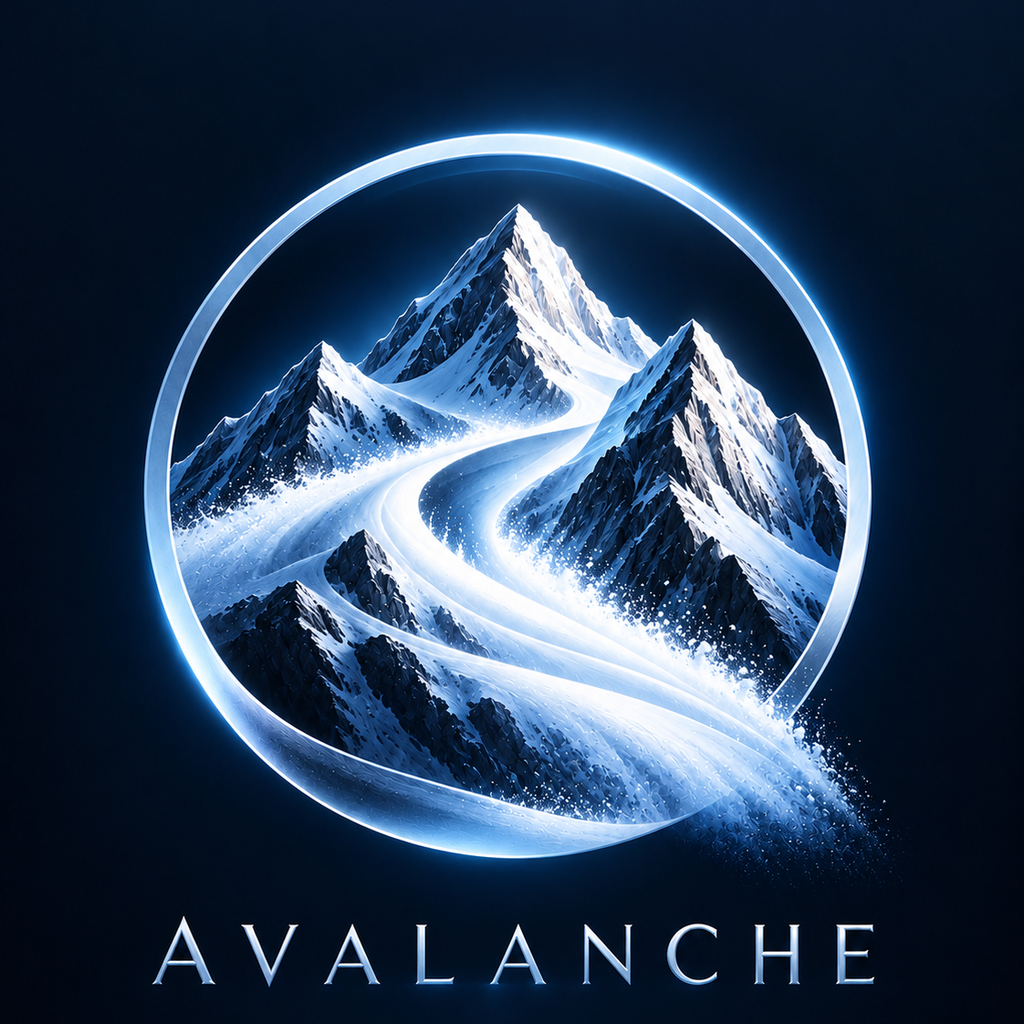
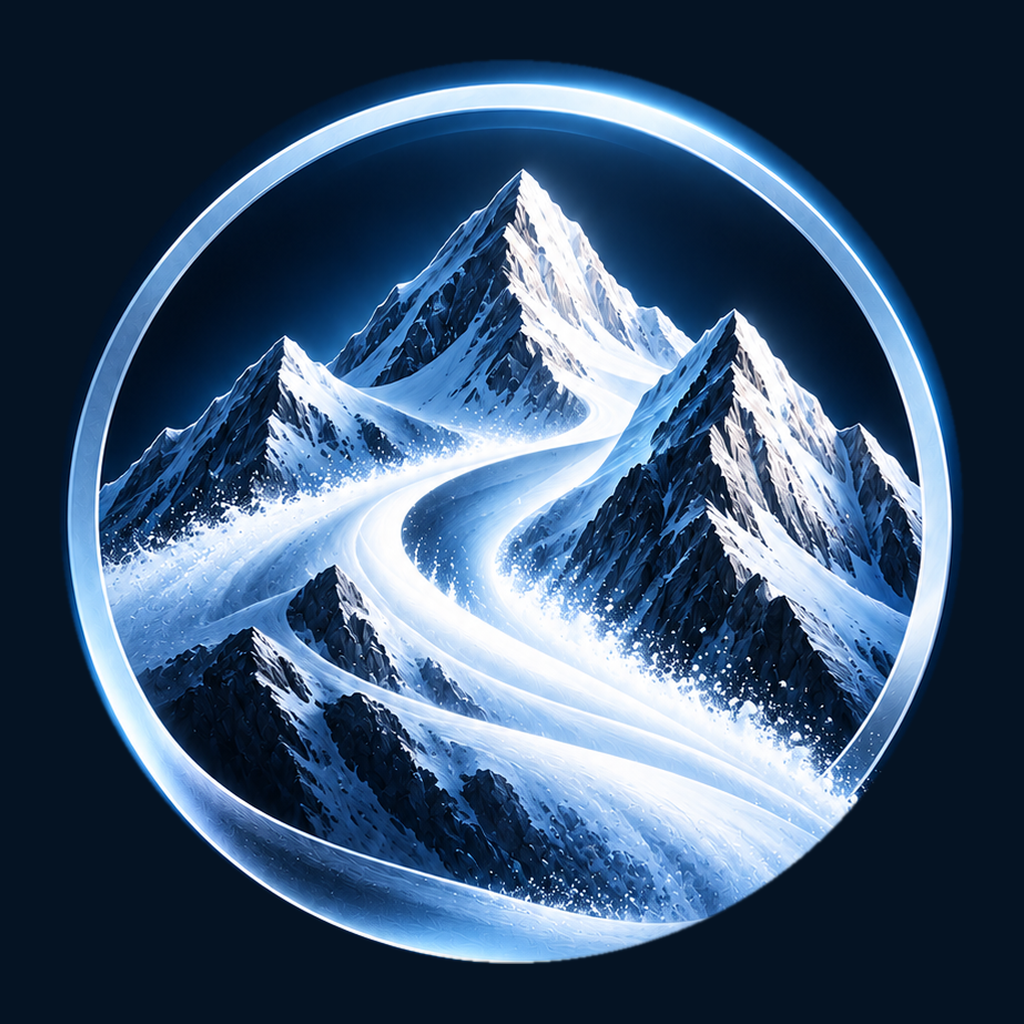
Add files via upload

diff --git a/index.html b/index.html
@@ -4,11 +4,11 @@
 <meta charset="utf-8">
 <meta name="viewport" content="width=device-width,initial-scale=1,maximum-scale=1,user-scalable=no,viewport-fit=cover">
 <meta name="apple-mobile-web-app-title" content="AVALANCHE">
-<meta name="theme-color" content="#07101b">
+<meta name="theme-color" content="#10243a">
 <meta name="apple-mobile-web-app-capable" content="yes">
 <meta name="apple-mobile-web-app-title" content="AVALANCHE">
-<link rel="apple-touch-icon" sizes="1024x1024" href="apple-touch-icon.png?v=4">
-<link rel="icon" type="image/png" href="apple-touch-icon.png?v=4">
+<link rel="apple-touch-icon" sizes="1024x1024" href="apple-touch-icon.png?v=5">
+<link rel="icon" type="image/png" href="apple-touch-icon.png?v=5">
 <title>AVALANCHE</title>
 <style>
 :root{
@@ -43,11 +43,11 @@ input,textarea{-webkit-user-select:text;user-select:text}
 button{cursor:pointer;touch-action:manipulation}
 button:focus-visible,input:focus-visible,textarea:focus-visible{outline:2px solid var(--ice);outline-offset:3px}
 .app{max-width:720px;margin:auto;padding:0 23px max(45px,env(safe-area-inset-bottom))}
-.top{display:flex;justify-content:space-between;align-items:flex-start;padding:34px 0 14px;gap:18px}
+.top{display:flex;justify-content:space-between;align-items:center;padding:24px 0 23px;gap:18px;position:relative;margin-bottom:28px}.top:before{content:"";position:absolute;z-index:-1;top:0;bottom:0;left:50%;width:100vw;transform:translateX(-50%);background:linear-gradient(120deg,#152d45,#10253a 65%,#0d2136);border-bottom:1px solid #36516a}
 .brandwrap{display:flex;align-items:center;gap:12px;min-width:0}
-.logo{width:44px;height:44px;flex:0 0 auto;display:block;filter:drop-shadow(0 0 10px rgba(166,214,255,.15))}
-.wordmark{font-size:15px;letter-spacing:.31em;font-weight:720;color:var(--brand);text-shadow:0 0 10px rgba(173,219,255,.12)}
-.sub{font-size:10px;letter-spacing:.19em;color:var(--ice2);text-transform:uppercase}
+.logo{width:54px;height:54px;flex:0 0 auto;display:block;object-fit:contain;filter:drop-shadow(0 0 6px rgba(166,214,255,.13))}
+.wordmark{font-size:15px;letter-spacing:.20em;font-weight:720;color:var(--brand);text-shadow:0 0 10px rgba(173,219,255,.12)}
+.sub{font-size:10px;letter-spacing:.015em;color:#bbcfdf;line-height:1.5}
 .topright{display:flex;gap:14px;flex-shrink:0}
 .linkbtn{border:0;background:none;color:var(--brand);padding:5px 0;font-size:13px}
 .motto{color:#b7c8d8;font:italic 19px/1.5 Georgia,serif;margin:30px 0 34px;max-width:430px}
@@ -57,7 +57,7 @@ button:focus-visible,input:focus-visible,textarea:focus-visible{outline:2px soli
 .filters{display:flex;gap:22px;border-bottom:1px solid var(--line);margin-bottom:8px}
 .filter{padding:12px 0;background:none;border:0;color:var(--muted);border-bottom:2px solid transparent}
 .filter.active{color:var(--fg);border-color:var(--ice)}
-.count{margin:23px 0 14px;color:var(--muted);font-size:12px;letter-spacing:.04em}
+.count{margin:20px 0 3px;color:#738ba0;font-size:11px;letter-spacing:.03em}
 .entry{padding:24px 2px 25px;border-bottom:1px solid var(--line);position:relative}
 .entrytype{font-size:10px;letter-spacing:.17em;color:#a7c0d6;text-transform:uppercase;margin-bottom:14px}
 .quote{font:normal clamp(23px,5vw,32px)/1.42 Georgia,"Times New Roman",serif;letter-spacing:-.025em;white-space:pre-wrap}
@@ -95,26 +95,33 @@ input{height:47px}
 .notice{font-size:12px;color:#a4bacb;margin-top:8px}
 .hidden{display:none!important}
 @media(max-width:520px){
-  .top{padding-top:27px}
+  .top{padding-top:20px;padding-bottom:21px;margin-bottom:25px}
   .motto{margin-top:28px}
   .controls{gap:9px}
   .primary,.secondary{padding:10px 12px}
   .entry{padding-top:21px}
   .wordmark{font-size:14px}
-  .brandwrap{gap:10px}
-  .logo{width:40px;height:40px}
+  .brandwrap{gap:9px}
+  .logo{width:53px;height:53px}
 }
 
 /* V3 opening: typography only. No artwork, particles or decorative effects. */
-.splash{position:fixed;inset:0;z-index:1000;background:#07101b;color:#edf4fb;display:flex;align-items:center;justify-content:center;padding:36px 30px;opacity:1;transition:opacity .65s ease;isolation:isolate}
+.splash{position:fixed;inset:0;z-index:1000;background:linear-gradient(150deg,#060d17,#09172a 57%,#050b14);color:#edf4fb;display:flex;align-items:center;justify-content:center;padding:36px 30px;opacity:1;transition:opacity .65s ease;isolation:isolate}
 .splash.leaving{opacity:0;pointer-events:none}
-.splash-copy{width:100%;max-width:590px;text-align:center;display:flex;flex-direction:column;gap:23px;align-items:center}
-.splash-line{margin:0;font:normal clamp(23px,5.9vw,36px)/1.45 Georgia,'Times New Roman',serif;letter-spacing:.015em;opacity:0;transform:translateY(9px);transition:opacity .85s ease,transform .85s ease;text-wrap:balance}
-.splash-line.visible{opacity:1;transform:translateY(0)}
+.splash-copy{width:100%;max-width:590px;text-align:center;display:flex;flex-direction:column;gap:26px;align-items:center;transform:translateY(-2vh)}
+.splash-line{margin:0;font:normal clamp(23px,5.9vw,36px)/1.45 Georgia,'Times New Roman',serif;letter-spacing:.015em;opacity:0;transform:translateY(16px) scale(.965);filter:blur(5px);transition:opacity 1.1s cubic-bezier(.2,.8,.2,1),transform 1.4s cubic-bezier(.2,.8,.2,1),filter 1.2s ease;text-wrap:balance}
+.splash-line.visible{opacity:1;transform:translateY(0) scale(1);filter:blur(0)}
+.splash-line:nth-child(3){font-weight:600;color:#f0f8ff;text-shadow:0 0 34px rgba(167,207,246,.15)}
 .splash-credit{margin:13px 0 0;color:#9fbbce;font-size:11px;font-weight:600;letter-spacing:.24em;opacity:0;transition:opacity .8s ease}
 .splash-credit.visible{opacity:1}
 .splash-skip{position:absolute;bottom:max(30px,env(safe-area-inset-bottom));right:27px;border:0;background:transparent;color:#9eb6c8;padding:13px 5px;font-size:12px;letter-spacing:.06em}
-@media(prefers-reduced-motion:reduce){.splash,.splash-line,.splash-credit{transition:none}.splash-line{transform:none}}
+@media(prefers-reduced-motion:reduce){.splash,.splash-line,.splash-credit{transition:none}.splash-line{transform:none;filter:none}}
+.tools{position:relative;flex-shrink:0}
+.tools summary{list-style:none;display:flex;align-items:center;justify-content:center;font-size:25px;color:#c7ddec;letter-spacing:.03em;cursor:pointer;width:42px;height:42px;touch-action:manipulation}
+.tools summary::-webkit-details-marker{display:none}
+.tools-menu{position:absolute;right:0;top:48px;min-width:168px;padding:9px 15px;background:#172e43;border:1px solid #39556d;border-radius:10px;z-index:3;box-shadow:0 12px 24px #0006;display:flex;flex-direction:column;gap:9px}
+.tools-menu .linkbtn{text-align:left;white-space:nowrap}
+@media(max-width:440px){.top .sub{max-width:200px}.wordmark{font-size:13px;letter-spacing:.15em}}
 </style>
 </head>
 <body>
@@ -131,20 +138,19 @@ input{height:47px}
 <main class="app">
   <header class="top">
     <div class="brandwrap">
-      <img class="logo" src="apple-touch-icon.png?v=4" alt="AVALANCHE mountain logo">
+      <img class="logo" src="avalanche-emblem.png?v=5" alt="AVALANCHE mountain logo">
       <div>
         <div class="wordmark">AVALANCHE</div>
-        <div class="sub">Quiet until unstoppable</div>
+        <div class="sub">Work hard in silence. Let success be your noise.</div>
       </div>
     </div>
-    <div class="topright">
-      <button class="linkbtn" id="export">Export</button>
-      <button class="linkbtn" id="import">Import</button>
-      <input type="file" id="importFile" accept="application/json" hidden>
-    </div>
+    <details class="tools"><summary aria-label="More options">···</summary><div class="tools-menu">
+      <button class="linkbtn" id="export">Export backup</button>
+      <button class="linkbtn" id="import">Import backup</button>
+    </div></details>
+    <input type="file" id="importFile" accept="application/json" hidden>
   </header>
 
-  <p class="motto">Work hard in silence.<br>Let success be your noise.</p>
 
   <div class="controls">
     <button class="primary" id="add">+ Add memory</button>
@@ -160,14 +166,13 @@ input{height:47px}
   <div class="count" id="count"></div>
   <div id="entries"></div>
 
-  <footer class="foot">Private on this device · Back up your memories with Export</footer>
 </main>
 
 <section class="overlay hidden" id="editor" aria-label="Edit memory">
   <div class="inner">
     <div class="overlayheader">
       <div class="overlaybrand">
-        <img class="logo" src="apple-touch-icon.png?v=4" alt="AVALANCHE mountain logo">
+        <img class="logo" src="avalanche-emblem.png?v=5" alt="AVALANCHE mountain logo">
         <span class="sub">AVALANCHE / NEW MEMORY</span>
       </div>
       <button class="x" id="closeEditor" aria-label="Close">×</button>
@@ -194,7 +199,7 @@ input{height:47px}
   <div class="inner">
     <div class="overlayheader">
       <div class="overlaybrand">
-        <img class="logo" src="apple-touch-icon.png?v=4" alt="AVALANCHE mountain logo">
+        <img class="logo" src="avalanche-emblem.png?v=5" alt="AVALANCHE mountain logo">
         <span class="wordmark">AVALANCHE</span>
       </div>
       <button class="x" id="closeViewer" aria-label="Close slideshow">×</button>
@@ -240,9 +245,9 @@ input{height:47px}
     credit.classList.add('visible');
     queue(finish,2200);
   }else{
-    [250,1350,2450].forEach((ms,i)=>queue(()=>lines[i].classList.add('visible'),ms));
-    queue(()=>credit.classList.add('visible'),3180);
-    queue(finish,5100);
+    [450,1900,3400].forEach((ms,i)=>queue(()=>lines[i].classList.add('visible'),ms));
+    queue(()=>credit.classList.add('visible'),4450);
+    queue(finish,7200);
   }
 })();
 </script>
@@ -278,7 +283,7 @@ input{height:47px}
     $('count').textContent=`${list.length} ${list.length===1?'memory':'memories'}`;
     $('entries').replaceChildren();
     if(!list.length){
-      $('entries').append(safeText('div','empty','A quiet place to remember.'));
+      $('entries').append(safeText('div','empty','Your words and moments will appear here.'));
       return;
     }
     for(const e of list){
